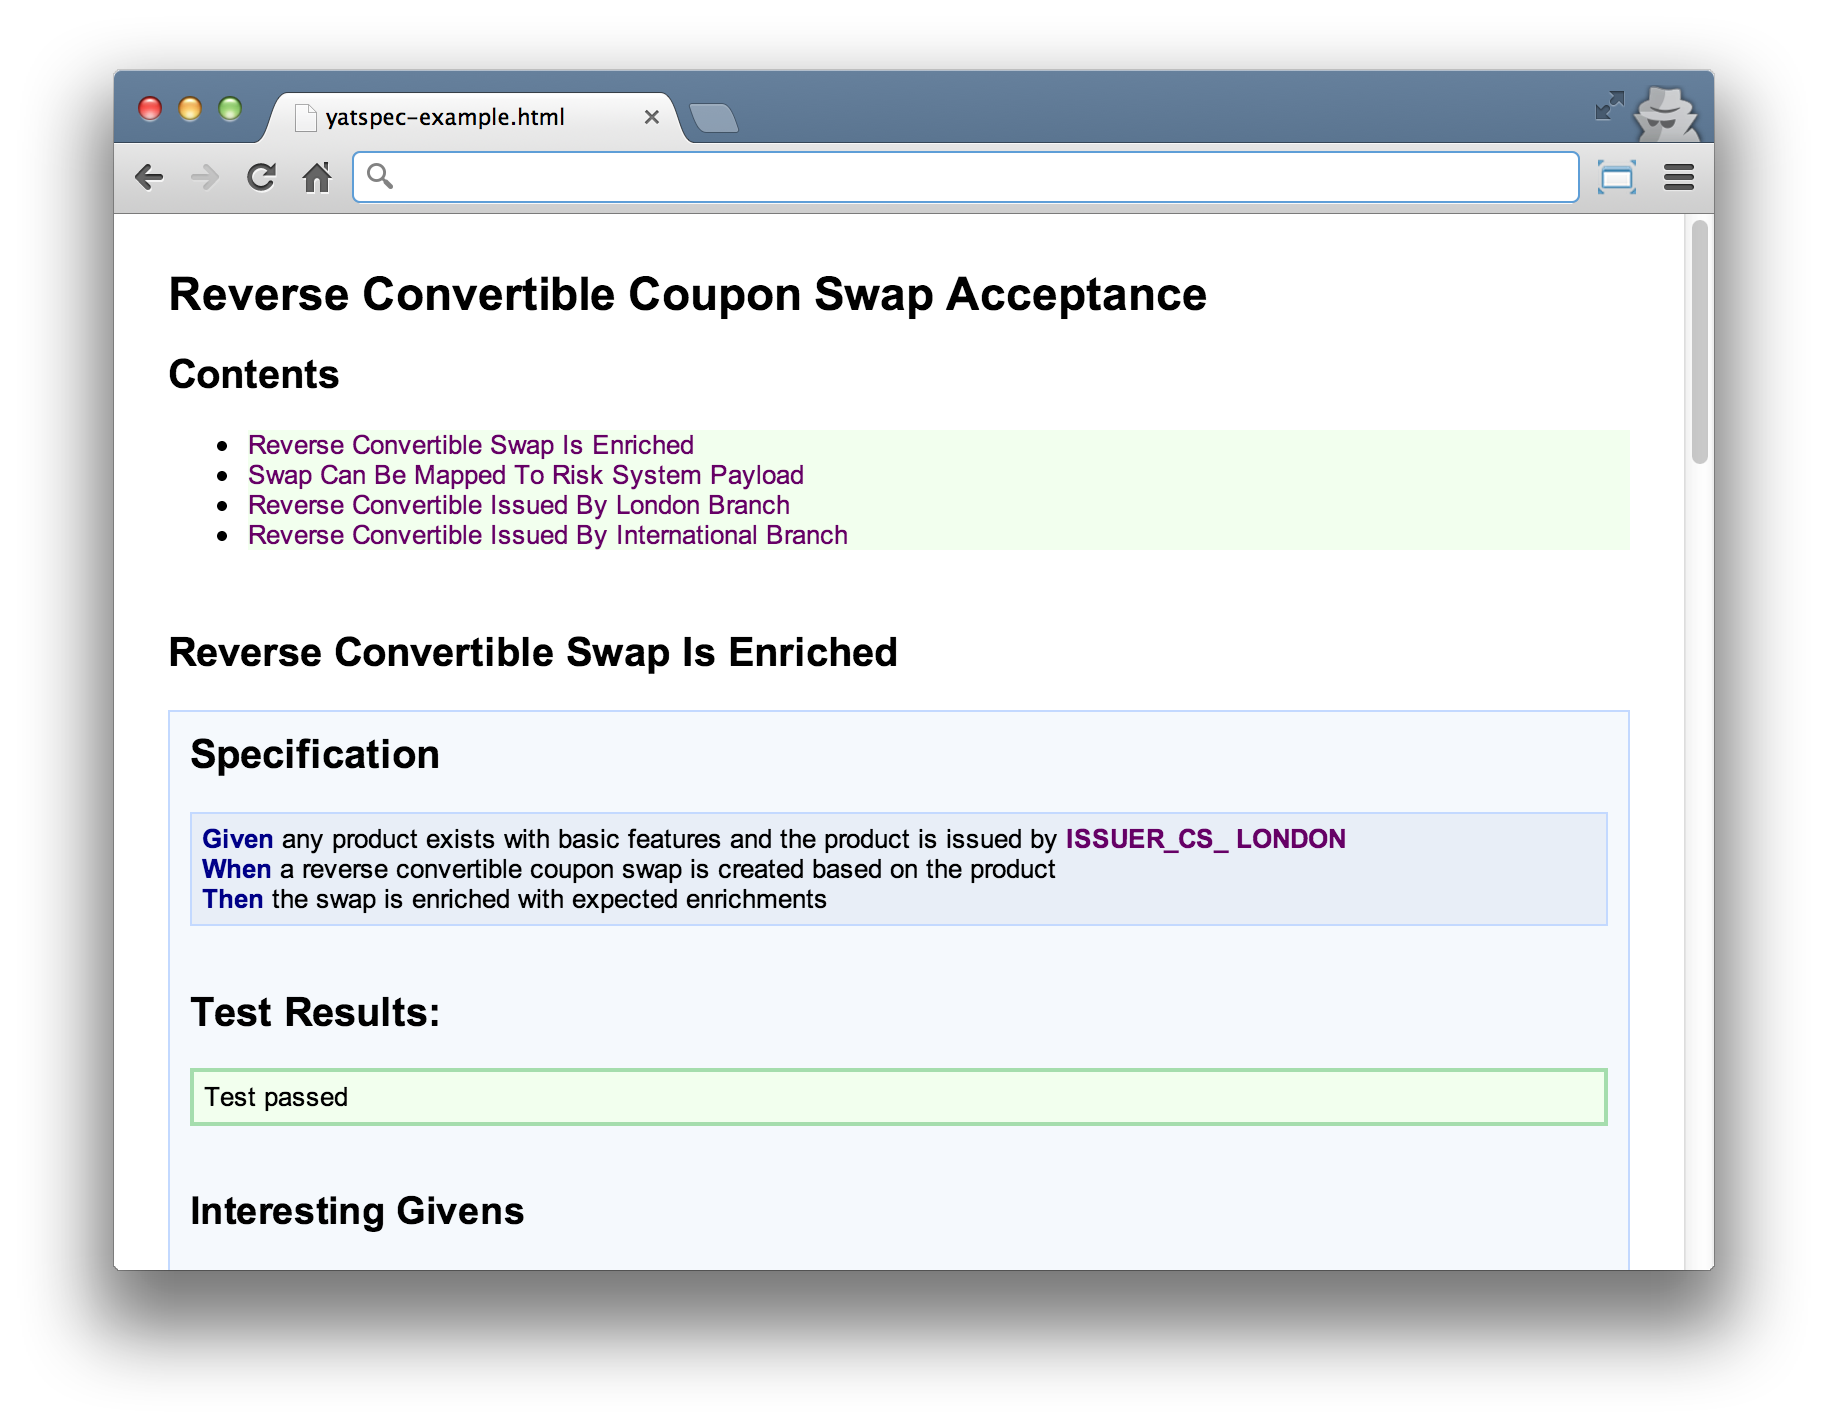
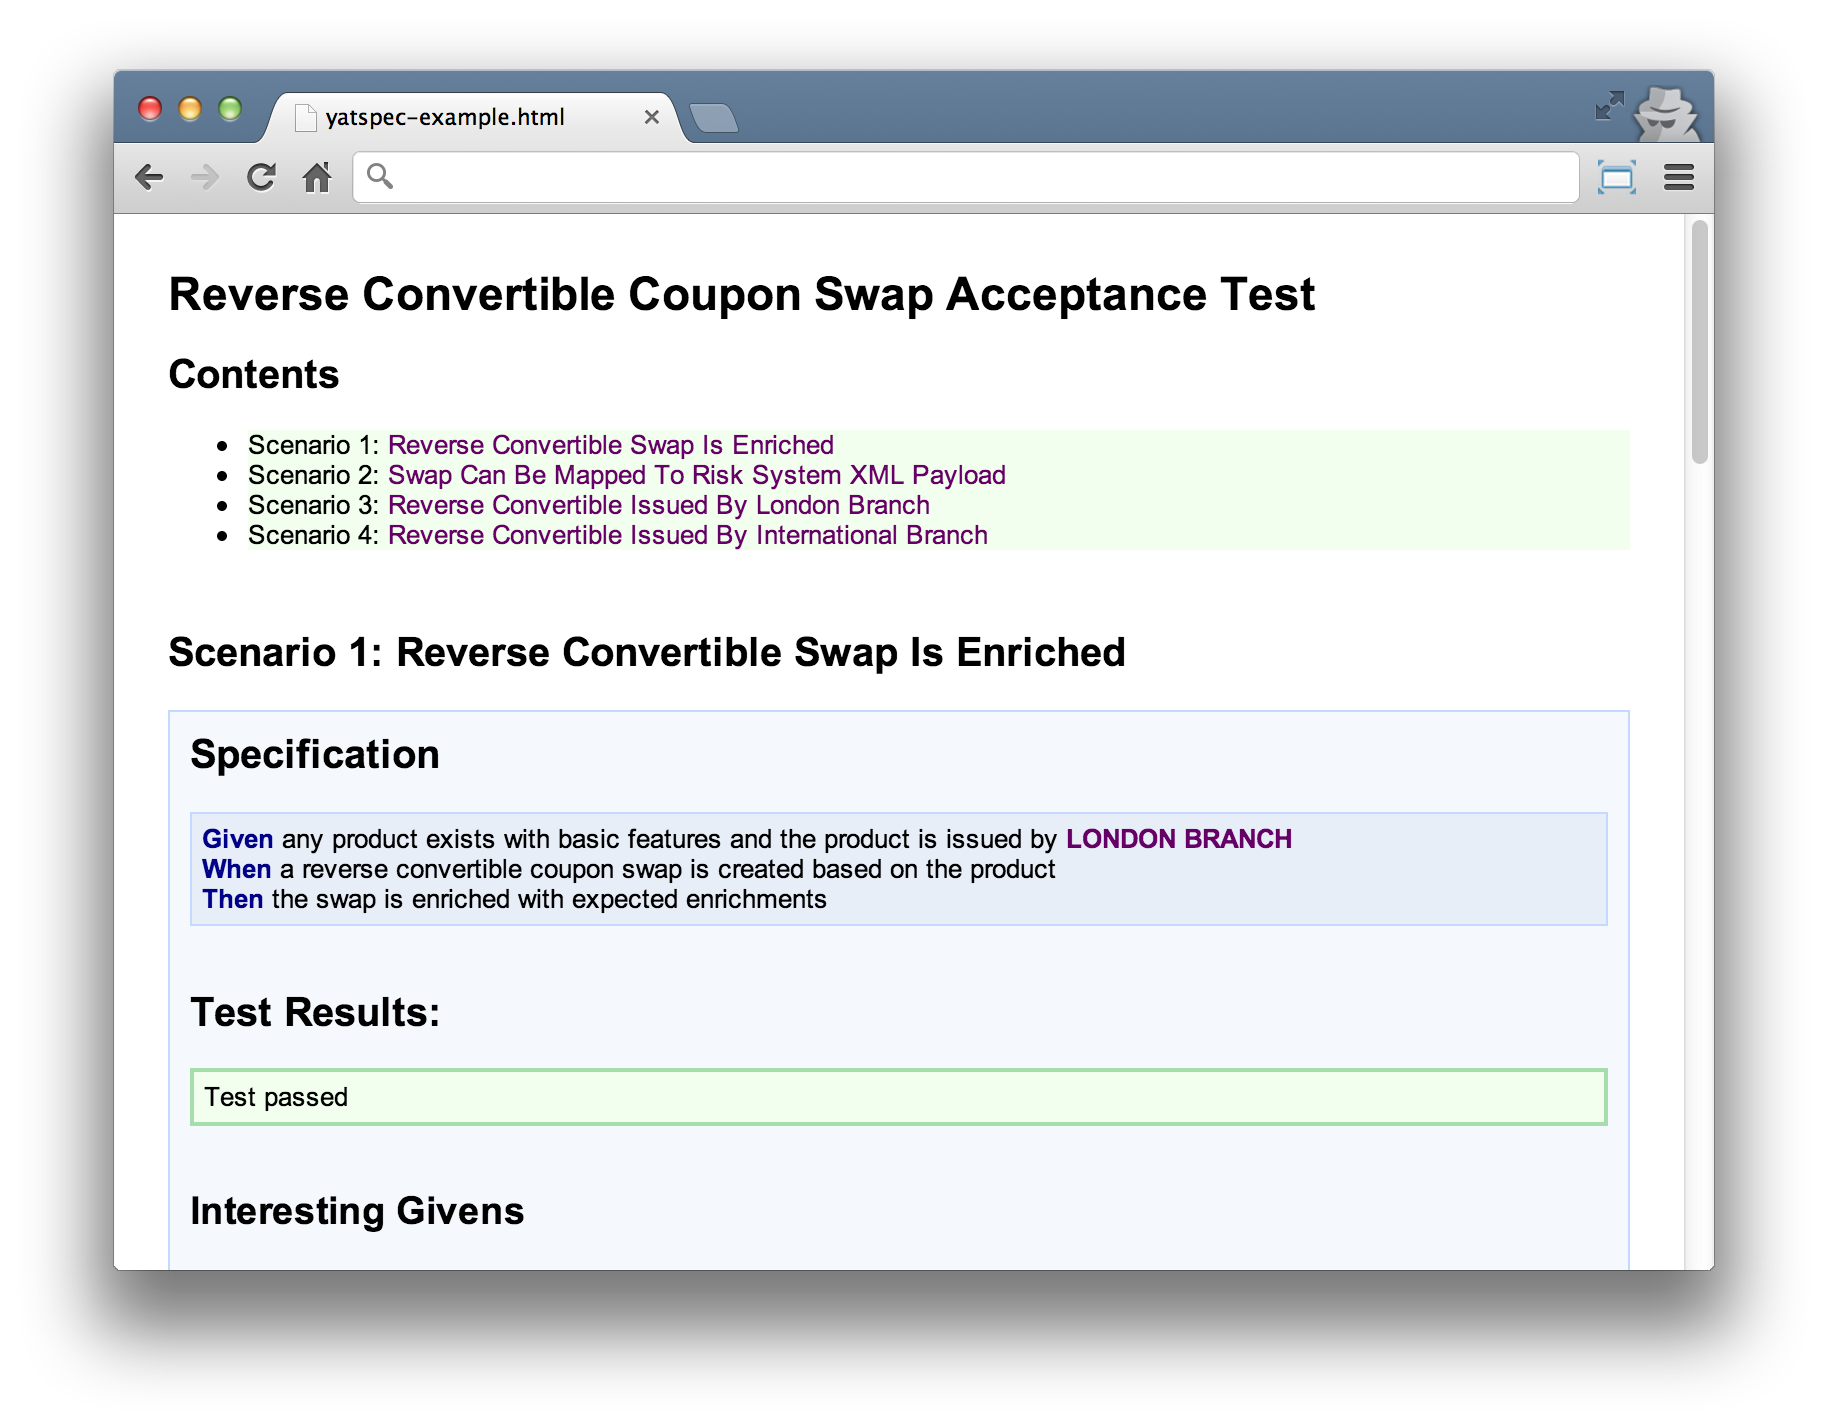
updating yatspec example and updating gramma for alternatives section

diff --git a/manuscript/images/yatspec/yatspec-example.html b/manuscript/images/yatspec/yatspec-example.html
@@ -228,20 +228,20 @@ dl.index-result {
 </head>
 <body>
 
-<h1>Reverse convertible coupon swap acceptance</h1>
+<h1>Reverse convertible coupon swap acceptance test</h1>
 
 <div class="contents">
     <h2>Contents</h2>
 
     <ul class="contents">
 
-            <li class='test-passed'><a href="#reverseConvertibleSwapIsEnriched">Reverse convertible swap is enriched</a></li>
+            <li class='test-passed'>Scenario 1: <a href="#reverseConvertibleSwapIsEnriched">Reverse convertible swap is enriched</a></li>
         
-            <li class='test-passed'><a href="#swapCanBeMappedToTradeGatewayPayload">Swap can be mapped to risk system payload</a></li>
+            <li class='test-passed'>Scenario 2: <a href="#swapCanBeMappedToTradeGatewayPayload">Swap can be mapped to risk system XML payload</a></li>
         
-            <li class='test-passed'><a href="#reverseConvertibleIssuedByLondonBranch">Reverse convertible issued by london branch</a></li>
+            <li class='test-passed'>Scenario 3: <a href="#reverseConvertibleIssuedByLondonBranch">Reverse convertible issued by london branch</a></li>
         
-            <li class='test-passed'><a href="#reverseConvertibleIssuedByInternationalBranch">Reverse convertible issued by international branch</a></li>
+            <li class='test-passed'>Scenario 4: <a href="#reverseConvertibleIssuedByInternationalBranch">Reverse convertible issued by international branch</a></li>
         
     </ul>
 </div>
@@ -250,7 +250,7 @@ dl.index-result {
         <div class="testmethod">
 
         <a id="reverseConvertibleSwapIsEnriched"></a>
-        <h2>Reverse convertible swap is enriched</h2>
+        <h2>Scenario 1: Reverse convertible swap is enriched</h2>
 
             
 
@@ -259,7 +259,7 @@ dl.index-result {
                     <a id=""></a>
                     <h2>Specification</h2>
                     <pre class="highlight specification">
-Given any product exists with basic features and the product is issued by ISSUER_CS_ LONDON
+Given any product exists with basic features and the product is issued by LONDON BRANCH
 When a reverse convertible coupon swap is created based on the product
 Then the swap is enriched with expected enrichments</pre>
                     <h2>Test results:</h2>
@@ -400,9 +400,9 @@ Test passed</pre>
                     <a id=""></a>
                     <h2>Specification</h2>
                     <pre class="highlight specification">
-Given any product exists with basic features and the product is issued by ISSUER_CS_ LONDON
+Given any product exists with basic features and the product is issued by LONDON BRANCH
 When a reverse convertible coupon swap is created based on the product
-Then the swap counterparty is counterparty OTC_ISSUANCE_CS_ LONDON</pre>
+Then the swap counterparty is counterparty LONDON ISSUANCE</pre>
                     <h2>Test results:</h2>
 
 

diff --git a/manuscript/part2/alternatives.md b/manuscript/part2/alternatives.md
@@ -15,11 +15,11 @@ There's always the option not to write acceptance tests.
 
 If you genuinely don't have customer or if you are your own customer, it's worth thinking carefully about whether there is value in going through the steps described in [part 1](#[part1).
 
-A big part of acceptance testing is ensuring you achieve what the custom intended. The customer is the audience and acceptance tests aim to give them confidence. Without that audience, testing confidence is more about supporting the development team and is typically technology focused.
+A big part of acceptance testing is ensuring you achieve what the customer intended. The customer is the audience and acceptance tests aim to give them confidence. Without that audience, testing confidence is more about supporting the development team and is typically technology focused.
 
 ![Brian Marick's testing matrix](images/testing_matrix.png)
 
-You may shift emphasis onto cause grained style testing, exercising large parts of the system with scenarios driven out by the development team. Test whatever you feel needs testing. Start the stack up, drive the application through it's UI or test multiple components using a ports and adapters style. The choice is yours and you may well adhere to the testing pyramid developed by Mike Cohn in [Succeeding in Agile](http://amzn.to/YnXRdp).
+You may shift emphasis onto coarse grained style testing, exercising large parts of the system with scenarios driven out by the development team and not the business. Test whatever you feel needs testing. Start the stack up, drive the application through it's UI or test multiple components using a ports and adapters style. The choice is yours and you may or may not end up with tests mimicking to the testing pyramid developed by Mike Cohn in [Succeeding in Agile](http://amzn.to/YnXRdp).
 
 ![The testing triangle; fewer tests exist that exercise the UI than core services (behaviours) and components (units)](images/test-pyramid.jpg)
 
@@ -28,7 +28,7 @@ You may shift emphasis onto cause grained style testing, exercising large parts 
 
 We've talked a lot about specifying upfront but defining a specification upfront, albeit incrementally, is still a form of upfront design. It's an improvement over traditional waterfall "big" up front design but it may be an option to eliminate it all together.
 
-If you can deliver features quickly enough and cheaply enough, you can agree behaviour with the customer against the deployed, live features. To do this effectively, it makes sense to have very small requirements or stories and to be talking to the business constantly. You should expect to deploy several iterations of features before getting it bang on.
+If you can deliver features quickly enough and cheaply enough, you can agree behaviour with the customer against the deployed, live features. To do this effectively, it makes sense to have very small requirements or stories and to be talking to the business constantly. You should expect to deploy several iterations of features before getting it right.
 
 
 
@@ -46,9 +46,9 @@ In the typical process, specification is done upfront. The acceptance criteria i
 
 Matt Savage coined the phrase "log don't specify" to capture the idea of writing acceptance tests in such a way as to capture and communicating key events during a test but without specifying these upfront. Using typical specification frameworks like Concordion or FIT, HTML "specifications" document important events, inputs and outputs of a test. The HTML is then instrumented and run with the framework to produce styled HTML artifacts indicating success or failure. These are the kind of artifacts you can share with business to verify requirements and document system behaviour.
 
-You can flip this on its head if you skip the specification step and instrument your test code directly so that it outputs artifacts directly to share and document. In Java, the Yatspec framework does this.
+You can flip this on its head if you skip the specification step and instrument your test code directly so that it outputs artifacts  to document runtime behaviour. In Java, the Yatspec framework does this.
 
-![Example of Yatspec output documenting system behaviour. The test code is self documenting](images/yatspec-example.png)
+![Example of Yatspec output documenting system behaviour. The test code logs runtime behaviour](images/yatspec/yatspec-example.png)
 
 
 ## Summary
